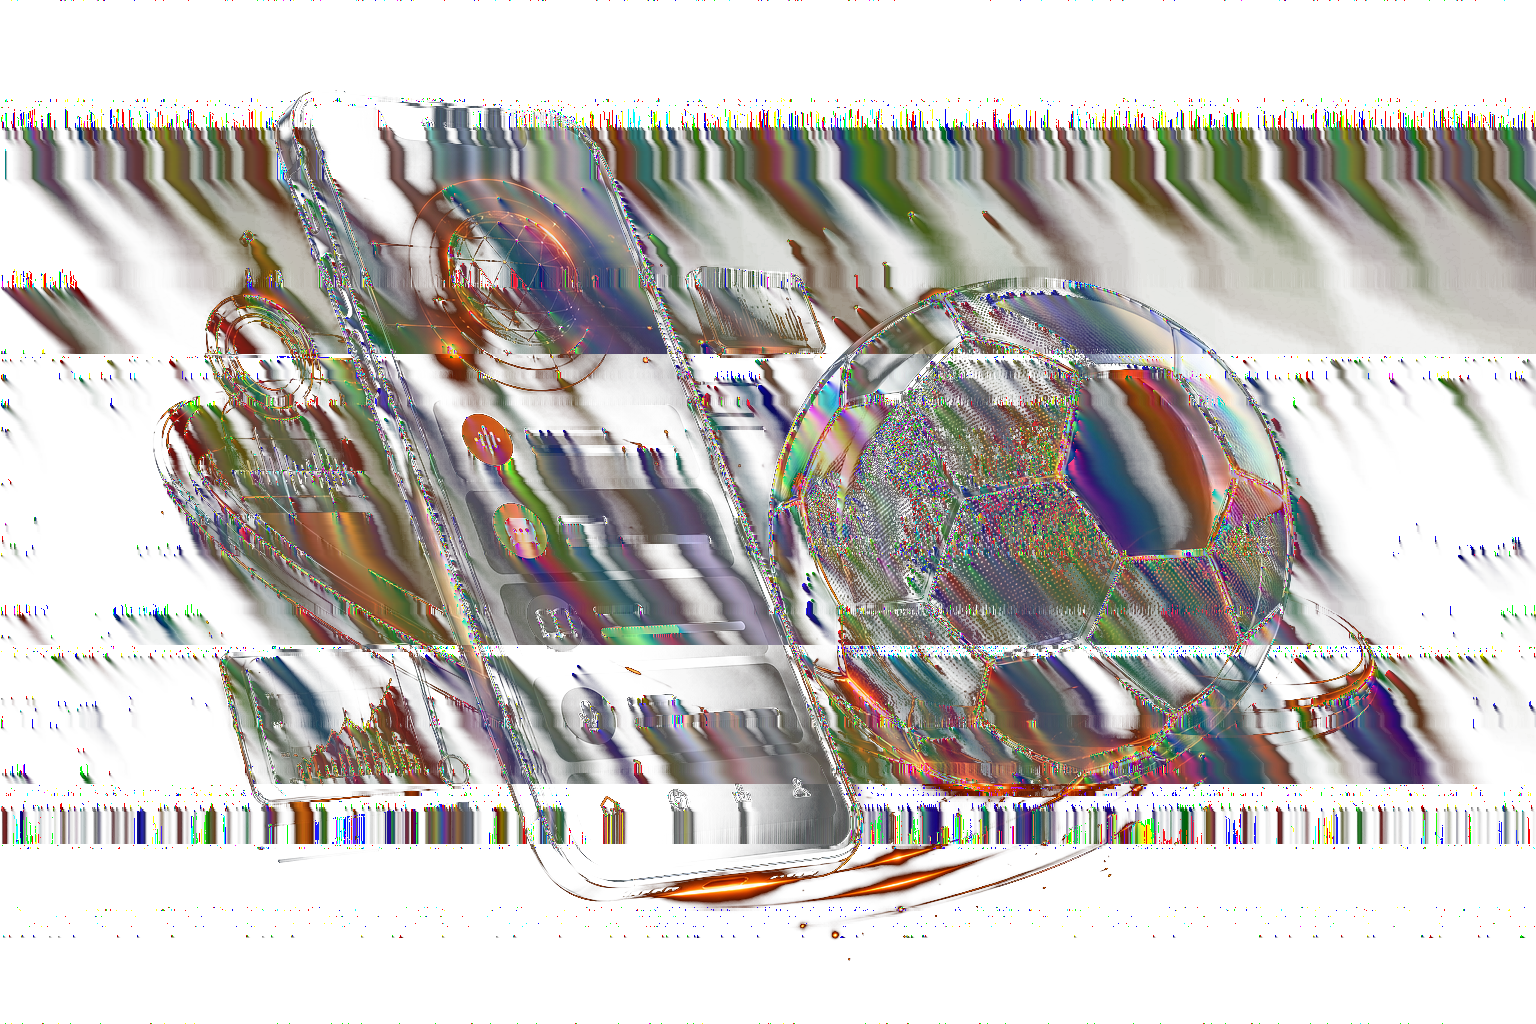
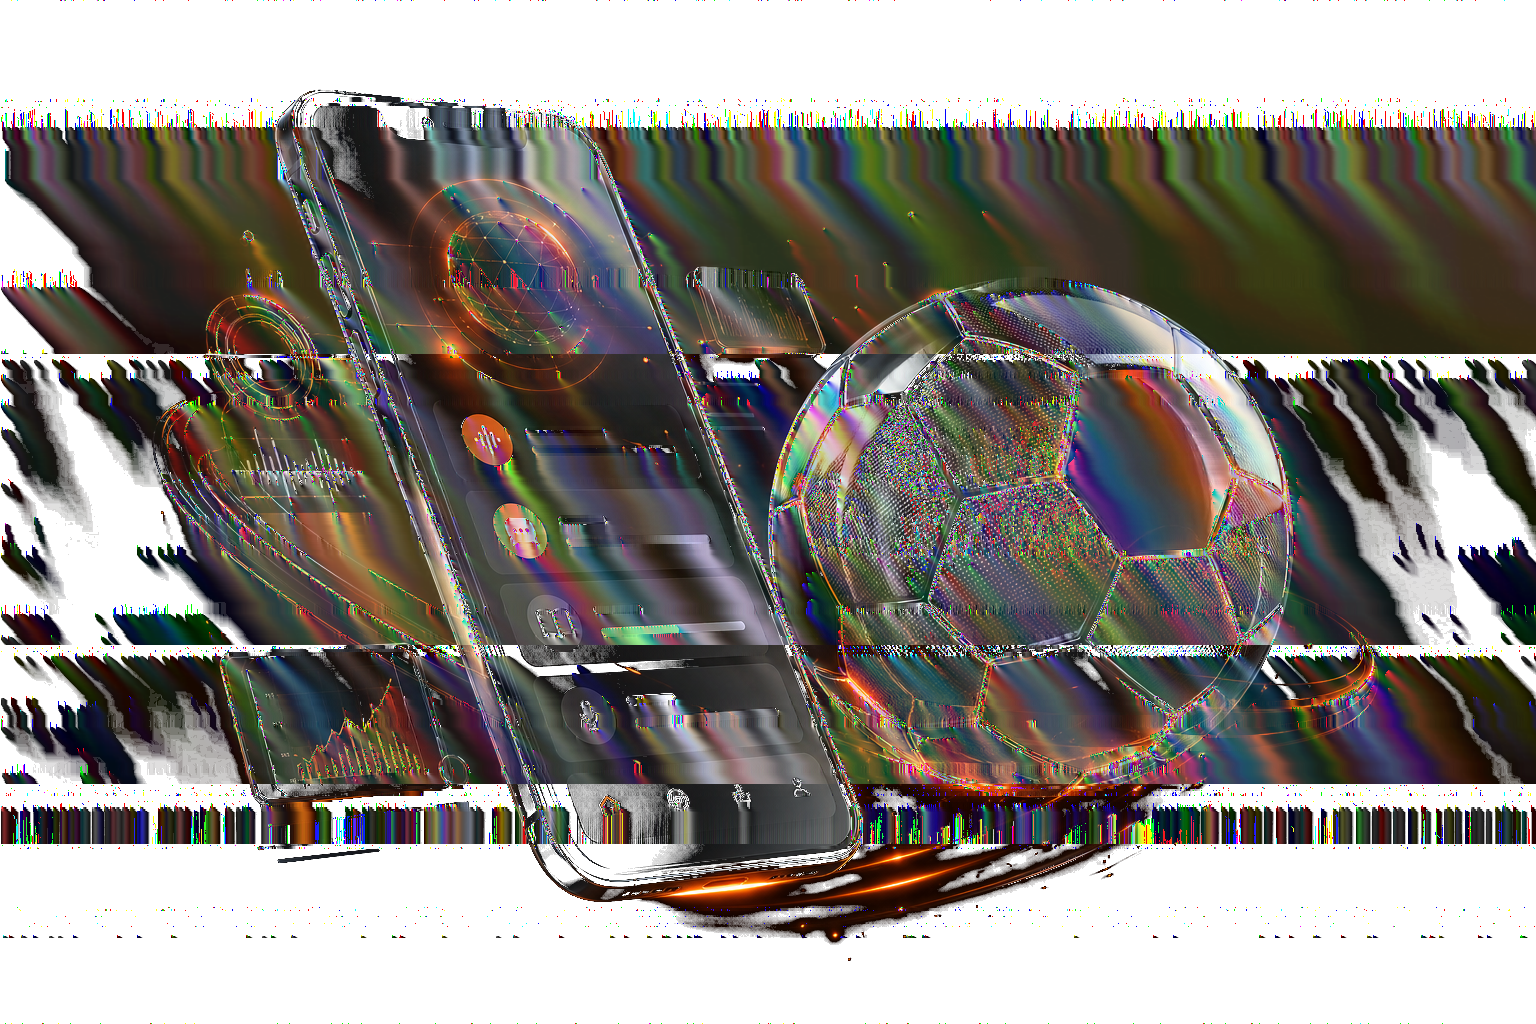
い

diff --git a/src/components/HeroTechVisual.tsx b/src/components/HeroTechVisual.tsx
@@ -12,13 +12,10 @@ const floatTransition = {
   ease: 'easeInOut' as const,
 };
 
-/** Same layout as CarouselItem figurine — correct position on the orange hero */
 export const HeroTechVisual: React.FC<HeroTechVisualProps> = ({isMobile}) => {
   const left = isMobile ? '50%' : '80%';
   const bottom = isMobile ? '56px' : '72px';
-  /** Landscape art: slightly shorter than figurine height so width stays in the right column */
-  const height = isMobile ? '46%' : '62%';
-  const maxWidth = isMobile ? 'min(92vw, 400px)' : 'min(46vw, 560px)';
+  const height = isMobile ? '50%' : '75%';
   const scale = isMobile ? 0.92 : 1.25;
 
   return (
@@ -29,13 +26,12 @@ export const HeroTechVisual: React.FC<HeroTechVisualProps> = ({isMobile}) => {
     >
       <motion.div
         id="hero-tech-visual-stage"
-        className="absolute flex flex-col items-center justify-end overflow-visible origin-bottom bg-transparent"
+        className="absolute flex items-end justify-center overflow-visible origin-bottom"
         style={{
           left,
           bottom,
           height,
-          maxWidth,
-          width: 'auto',
+          width: isMobile ? 'min(100vw, 520px)' : 'min(58vw, 720px)',
           zIndex: 20,
           transform: `translateX(-50%) scale(${scale})`,
           willChange: 'transform',
@@ -47,9 +43,9 @@ export const HeroTechVisual: React.FC<HeroTechVisualProps> = ({isMobile}) => {
           src={heroTechArt}
           alt=""
           draggable={false}
-          className="h-full w-auto max-w-full object-contain object-bottom pointer-events-none bg-transparent"
+          className="w-full h-full object-contain object-bottom pointer-events-none"
           style={{
-            filter: 'drop-shadow(0 20px 40px rgba(40,12,4,0.35))',
+            filter: 'drop-shadow(0 24px 48px rgba(35,10,4,0.4))',
           }}
           referrerPolicy="no-referrer"
         />